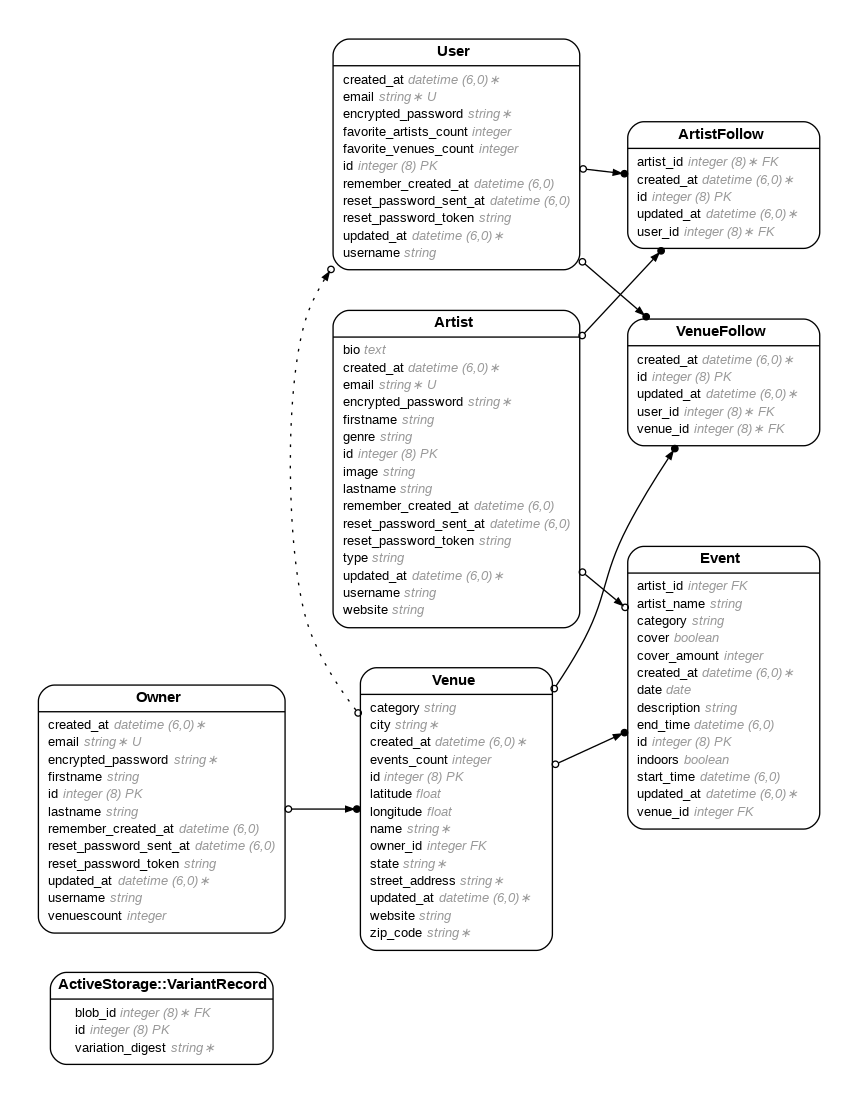
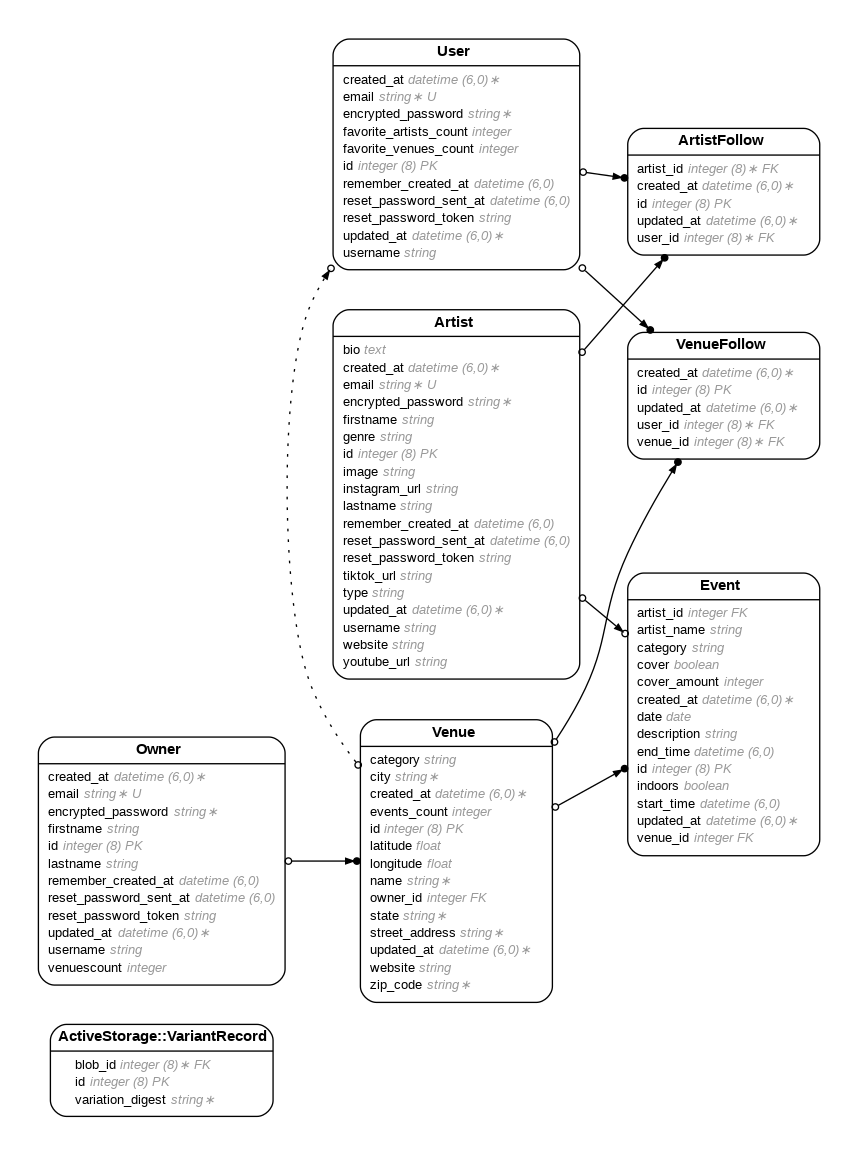
social links on artist page

diff --git a/db/schema.rb b/db/schema.rb
@@ -10,7 +10,7 @@
 #
 # It's strongly recommended that you check this file into your version control system.
 
-ActiveRecord::Schema[8.0].define(version: 2025_05_16_035750) do
+ActiveRecord::Schema[8.0].define(version: 2025_05_16_040343) do
   # These are extensions that must be enabled in order to support this database
   enable_extension "pg_catalog.plpgsql"
 
@@ -67,6 +67,9 @@ ActiveRecord::Schema[8.0].define(version: 2025_05_16_035750) do
     t.string "type"
     t.string "image"
     t.text "bio"
+    t.string "instagram_url"
+    t.string "youtube_url"
+    t.string "tiktok_url"
     t.index ["email"], name: "index_artists_on_email", unique: true
     t.index ["reset_password_token"], name: "index_artists_on_reset_password_token", unique: true
   end

diff --git a/app/models/artist.rb b/app/models/artist.rb
@@ -9,13 +9,16 @@
 #  firstname              :string
 #  genre                  :string
 #  image                  :string
+#  instagram_url          :string
 #  lastname               :string
 #  remember_created_at    :datetime
 #  reset_password_sent_at :datetime
 #  reset_password_token   :string
+#  tiktok_url             :string
 #  type                   :string
 #  username               :string
 #  website                :string
+#  youtube_url            :string
 #  created_at             :datetime         not null
 #  updated_at             :datetime         not null
 #

diff --git a/db/migrate/20250516040343_add_social_links_to_artists.rb b/db/migrate/20250516040343_add_social_links_to_artists.rb
@@ -1,0 +1,7 @@
+class AddSocialLinksToArtists < ActiveRecord::Migration[8.0]
+  def change
+    add_column :artists, :instagram_url, :string
+    add_column :artists, :youtube_url, :string
+    add_column :artists, :tiktok_url, :string
+  end
+end
